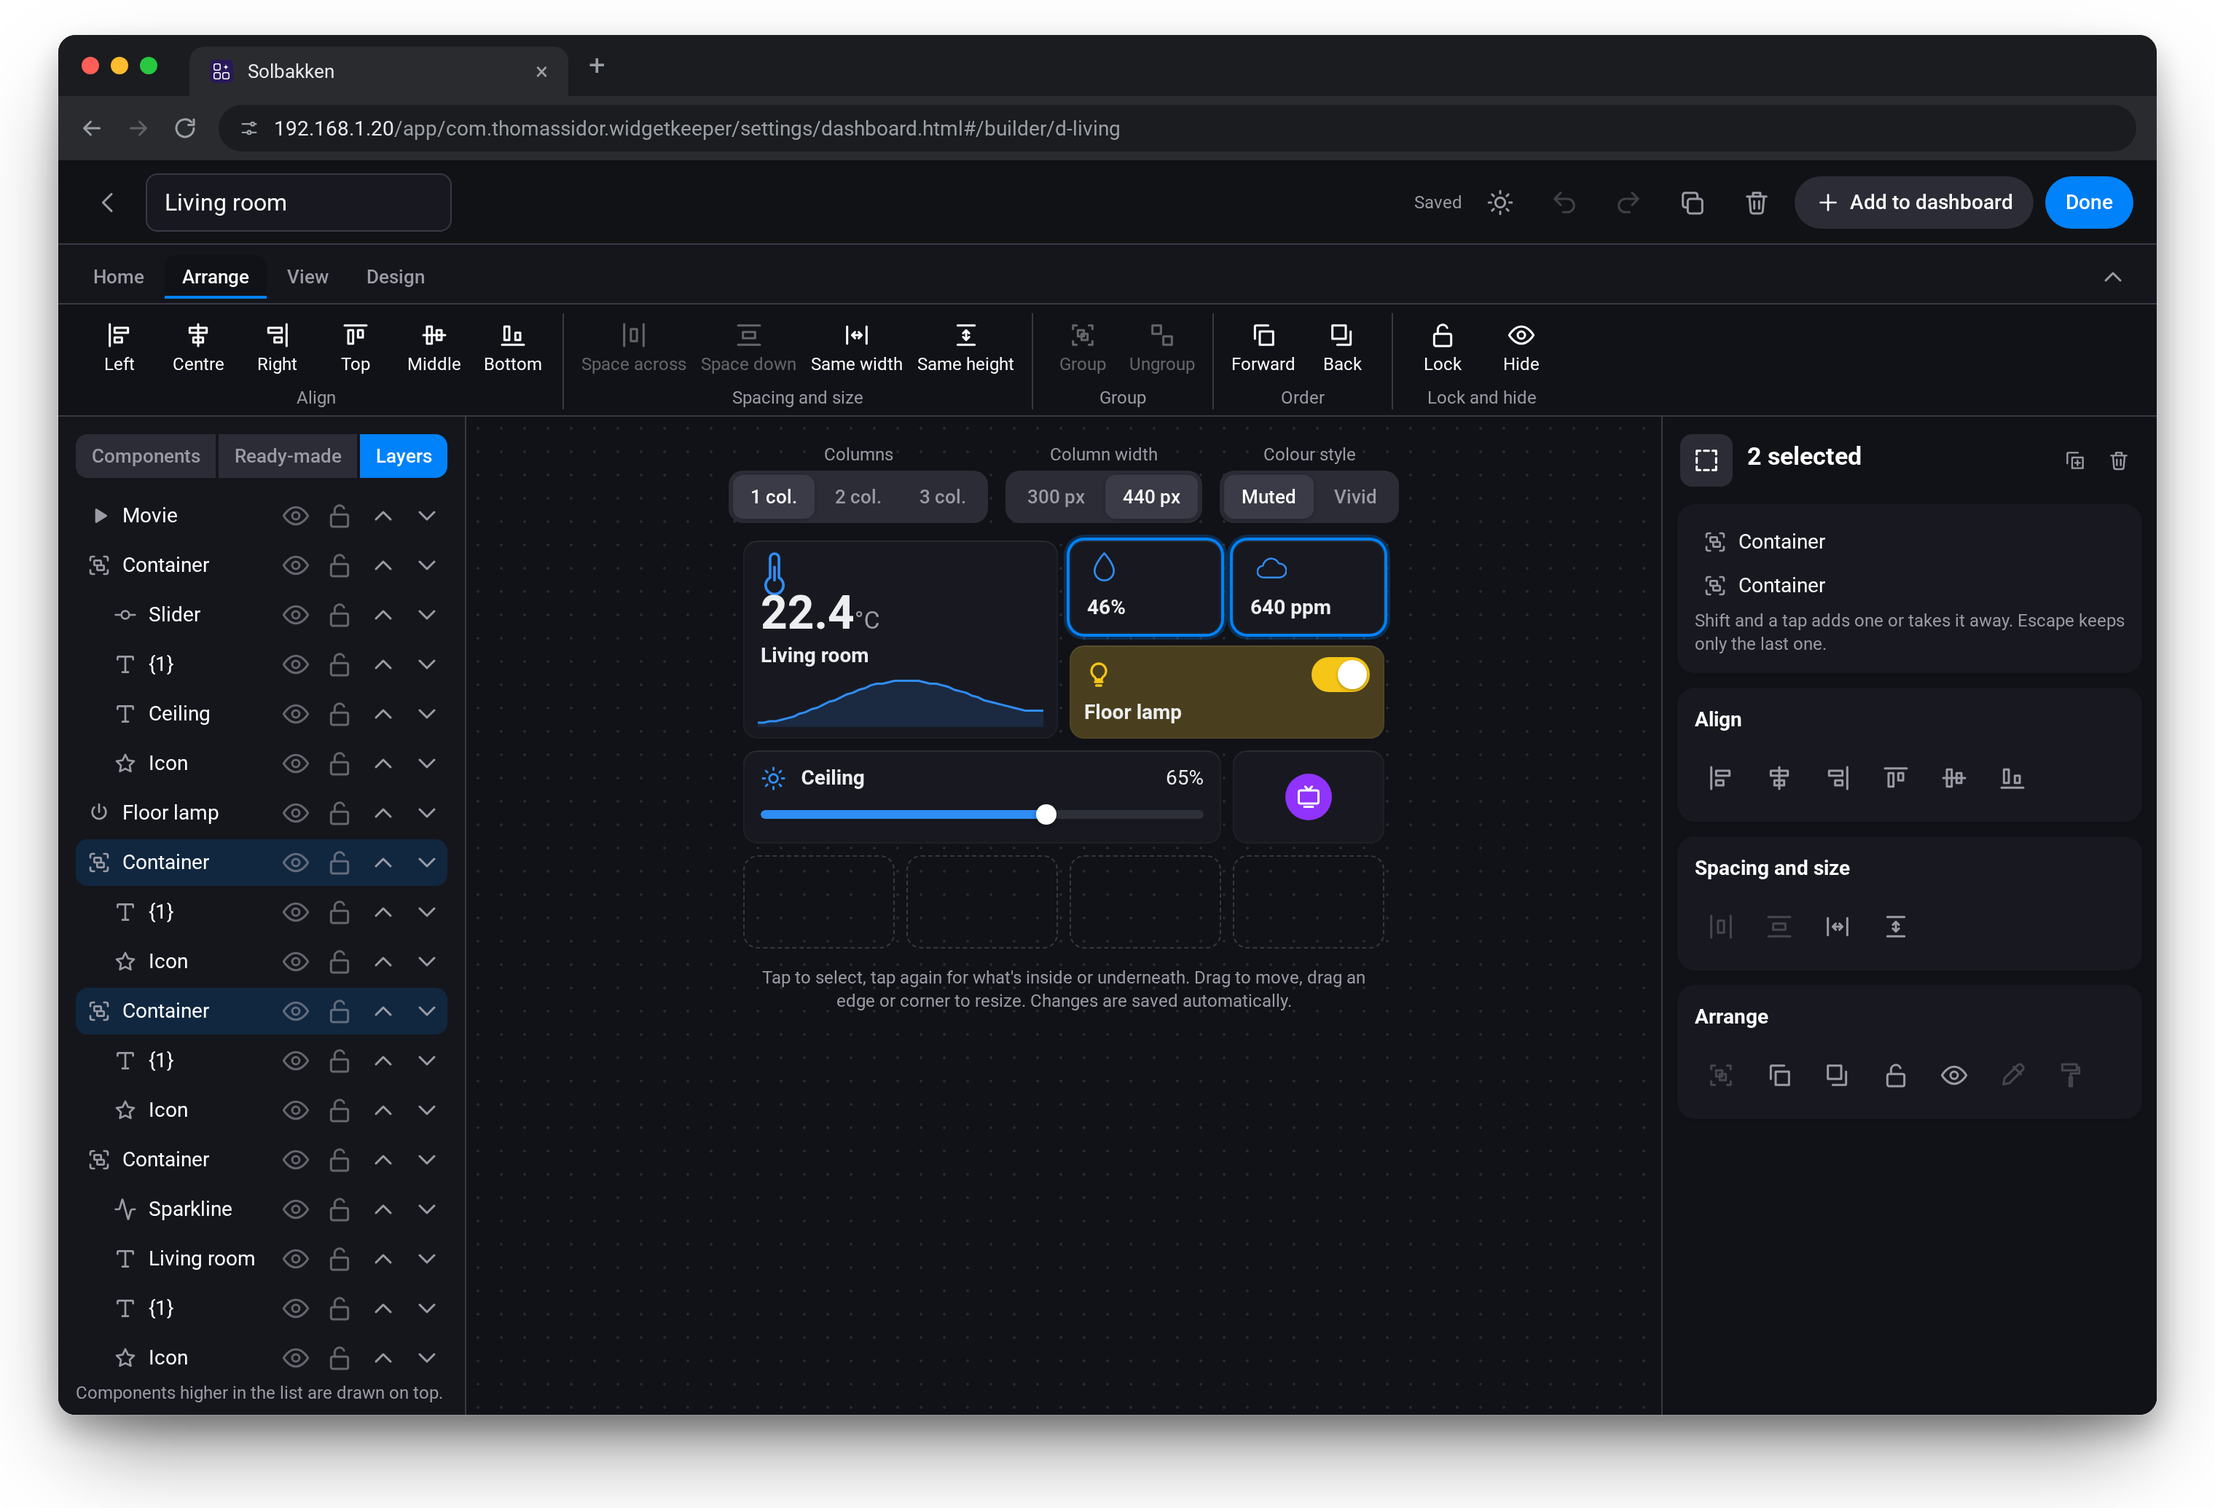
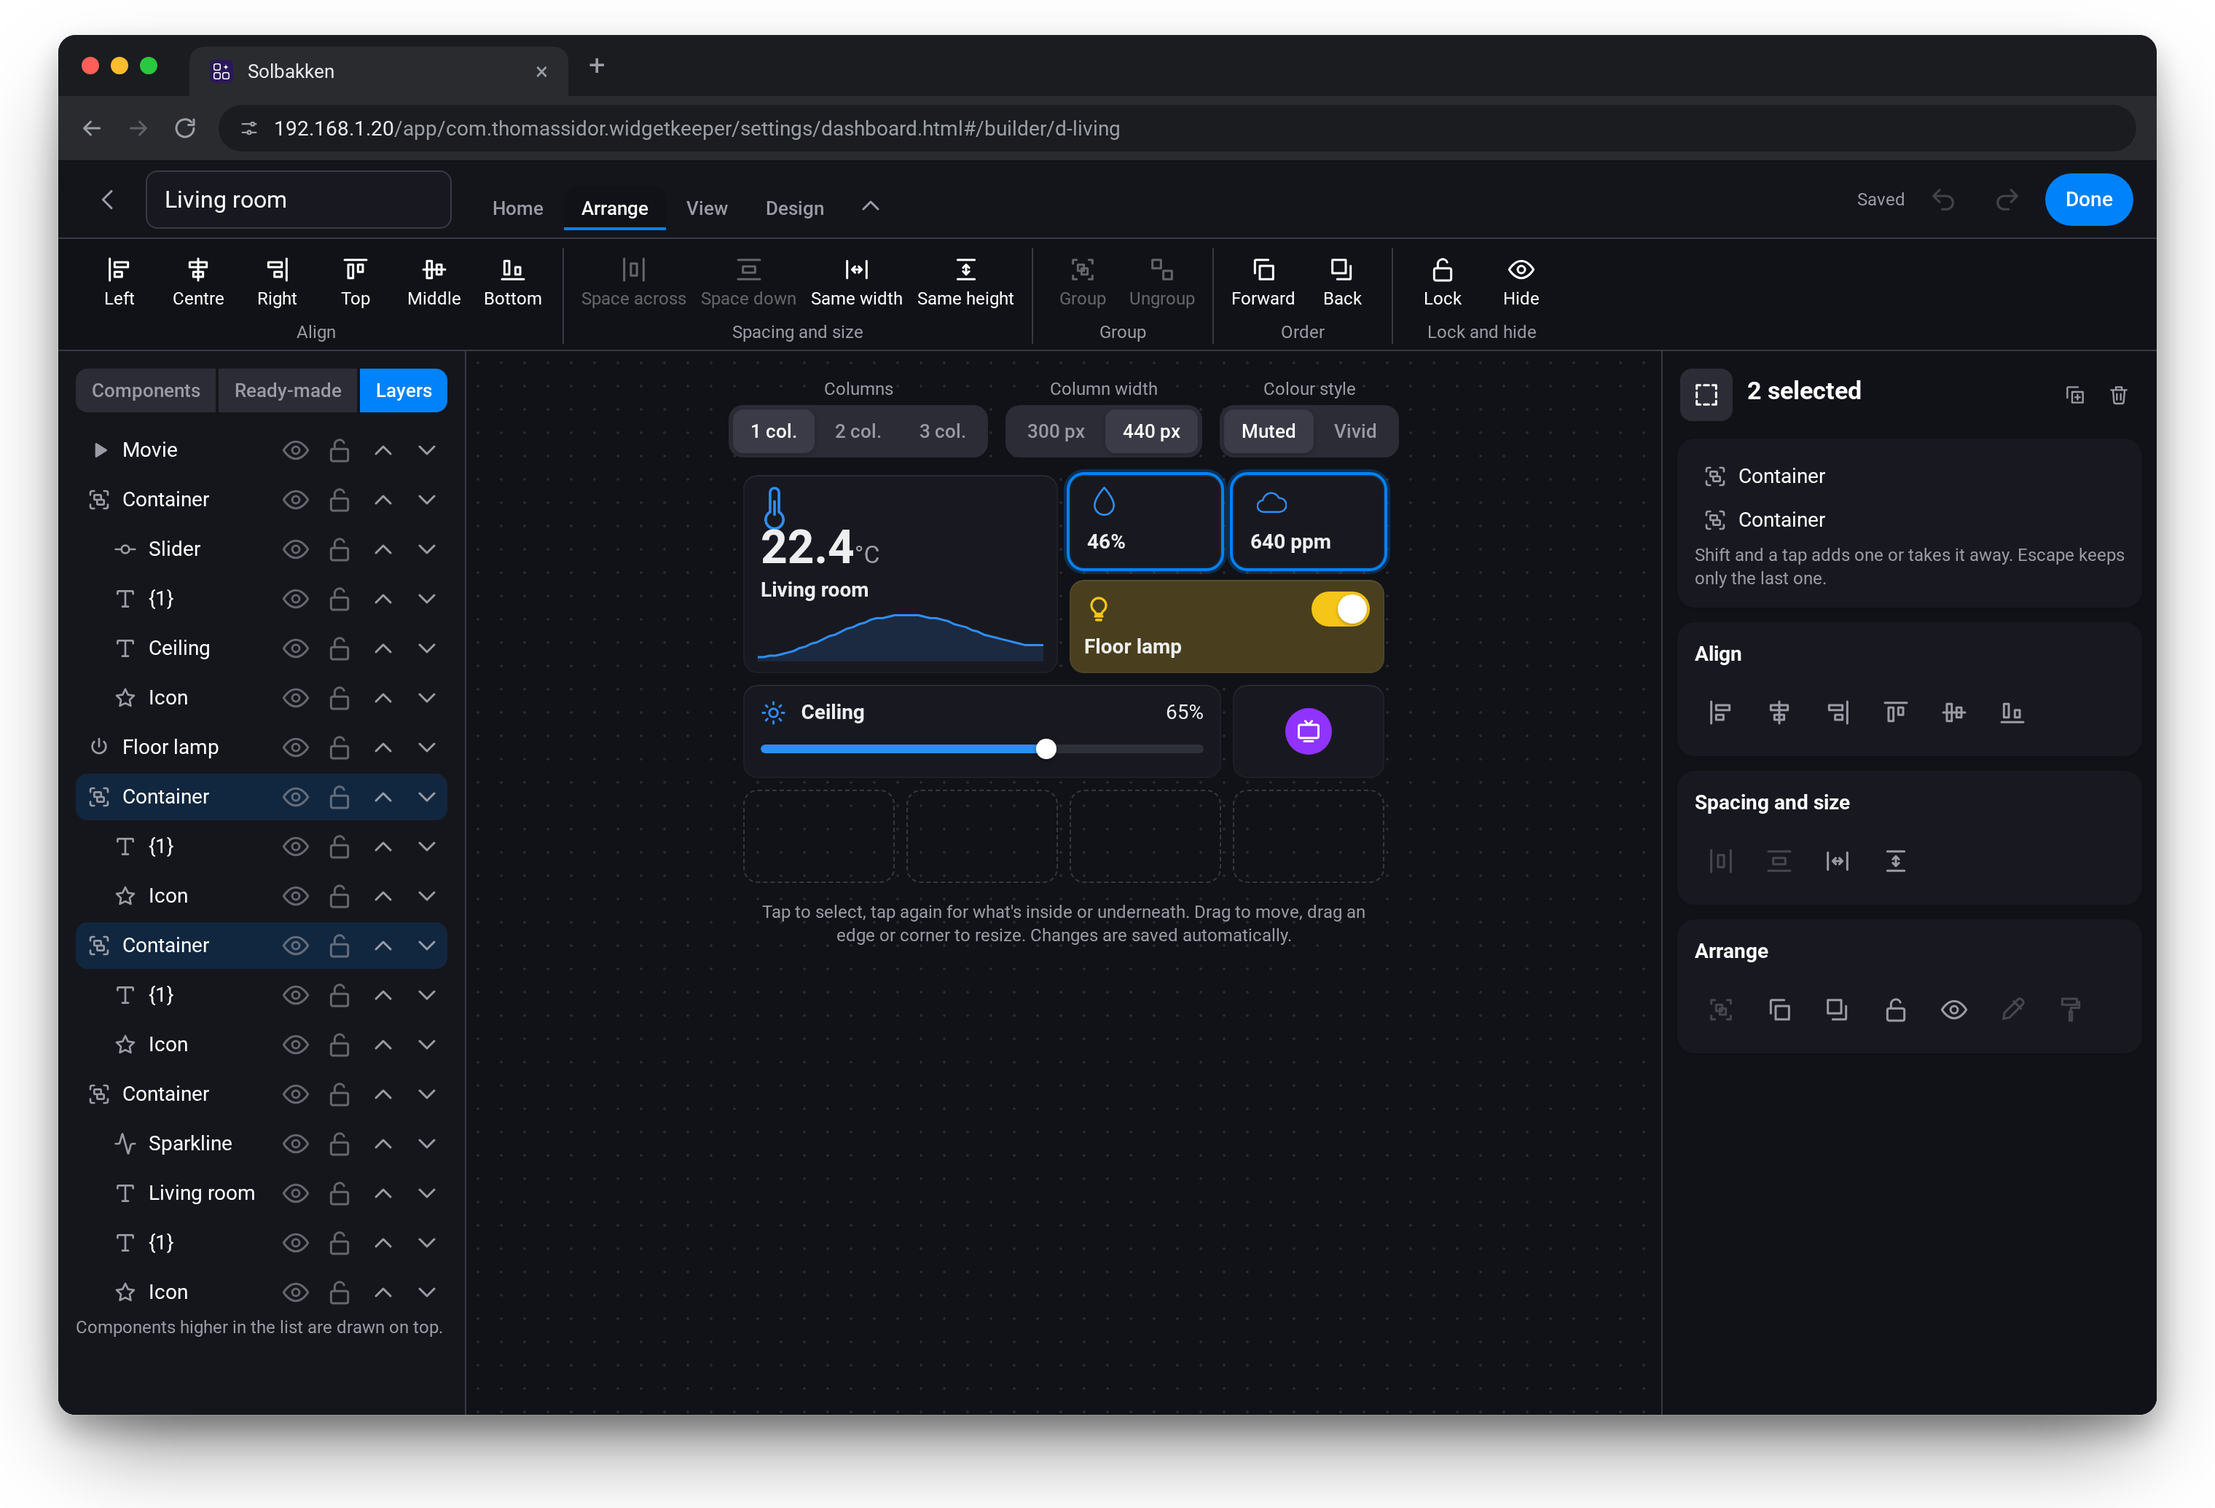
1.4.1's poster: Notes' Markdown, Batteries' Fill to the level, the builder's folded top bar

diff --git a/dev/whats-next-1.4.1.html b/dev/whats-next-1.4.1.html
@@ -8,7 +8,8 @@
     What's new in 1.4.1 (.homeychangelog.json), in the look of the 1.1.0 to 1.4.0 posters (whats-next-1.4.0.html): the new
     Batteries widget beside three of its Looks (docs/variants/battery-*.webp, `npm run variants -- battery`), the Widget
     Builder's ribbon of editing tools beside the real builder page (docs/web/ribbon.png, `npm run web-showcase -- ribbon`),
-    then the builder's smaller additions. All on made-up data. Plain words: say what it does.
+    then Notes' Markdown (what's typed beside its Look, docs/variants/textline-markdown.webp) and the builder's smaller
+    additions. All on made-up data. Plain words: say what it does.
     scripts/render-whats-next.mjs (`npm run whats-next -- 1.4.1`) renders it to docs/whats-next-1.4.1.png at 2x.
   -->
   <link href="https://fonts.googleapis.com/css2?family=Roboto:wght@400;500;700;900&display=swap" rel="stylesheet">
@@ -82,10 +83,20 @@
     .looks { flex: none; display: flex; gap: 16px; align-items: flex-start; }
     .looks img { display: block; width: 390px; height: auto; border-radius: 14px; }
 
-    /* The strip at the bottom: more in the Widget Builder, in four columns. */
-    .also { padding: 26px 36px 28px; margin-top: 24px; }
+    /* Notes: what's typed beside how it shows (its Look). */
+    .feat.notes { flex: none; display: flex; gap: 24px; align-items: flex-start; }
+    .notes .side { width: 400px; }
+    .notes img { flex: none; display: block; width: 390px; height: auto; border-radius: 14px; }
+    pre.typed {
+      margin: 0; padding: 14px 16px; border-radius: 14px; background: #1F2029; box-shadow: inset 0 0 0 1px rgba(255, 255, 255, 0.06);
+      font: 14px/22px ui-monospace, 'DejaVu Sans Mono', Menlo, Consolas, monospace; color: #E4E4E7; white-space: pre-wrap;
+    }
+    pre.typed b { color: #B9A6FF; font-weight: 400; }
+
+    /* Beside it: more in the Widget Builder, in two columns. */
+    .also { flex: 1 1 0; min-width: 0; padding: 22px 28px 20px; }
     .also h2 { margin: 0 0 16px; }
-    .also ul.more { margin: 0; display: block; columns: 4; column-gap: 36px; }
+    .also ul.more { margin: 0; display: block; columns: 2; column-gap: 32px; }
     .also ul.more li { break-inside: avoid; margin-bottom: 12px; }
   </style>
 </head>
@@ -95,10 +106,10 @@
     <div>
       <div class="eyebrow">Widgetkeeper 1.4.1 <span>Coming soon</span></div>
       <h1>New in 1.4.1</h1>
-      <p>Every battery in one tile, and the editing tools you know from design apps in the Widget Builder.</p>
+      <p>Every battery in one tile, the editing tools you know from design apps in the Widget Builder, and Notes with bold, lists and headings.</p>
     </div>
     <div class="chips">
-      <span>Batteries</span><span>Editing tools</span><span>Finer grid</span><span>Colour by value</span><span>Rectangle, Circle, Line</span>
+      <span>Batteries</span><span>Editing tools</span><span>Markdown in Notes</span><span>Finer grid</span><span>Colour by value</span><span>Rectangle, Circle, Line</span>
     </div>
   </header>
 
@@ -111,14 +122,15 @@
         <ul class="more">
           <li><b>Lowest first,</b> so you see at a glance what to change.</li>
           <li><b>Yellow and red</b> when a battery runs low, at levels you choose.</li>
+          <li><b>Fill to the level:</b> each cell filled as far as its battery, if you like.</li>
           <li><b>Devices that only say <i>low</i></b> show Low or OK.</li>
           <li><b>2, 3 or 4 per row,</b> Muted or Vivid, and your own names.</li>
         </ul>
       </div>
       <div class="looks">
         <img src="../docs/variants/battery-default.webp" alt="" width="780" height="688">
+        <img src="../docs/variants/battery-fill.webp" alt="" width="780" height="688">
         <img src="../docs/variants/battery-vivid.webp" alt="" width="780" height="688">
-        <img src="../docs/variants/battery-light.webp" alt="" width="780" height="688">
       </div>
     </section>
   </div>
@@ -128,7 +140,7 @@
       <div class="side">
         <span class="tag">Widget Builder</span>
         <h2>Editing tools</h2>
-        <p>A ribbon of tools above the canvas, as in Figma or Photoshop. The same tools are on a right click, with a list of shortcuts under <i>?</i>.</p>
+        <p>A ribbon of tools at the top, as in Figma or Photoshop. The same tools are on a right click, with a list of shortcuts under <i>?</i>.</p>
         <ul class="more">
           <li><b>Copy, cut and paste,</b> also into another design. Copy a look and paste it on another component.</li>
           <li><b>Select several</b> with Shift or a box, and move them together.</li>
@@ -143,6 +155,22 @@
       <img class="shot" src="../docs/web/ribbon.png" alt="" width="1520" height="1035">
     </section>
   </div>
+
+  <div class="columns">
+  <section class="feat notes">
+    <div class="side">
+      <span class="tag">Notes</span>
+      <h2>Bold, lists and headings</h2>
+      <p>Format a note with Markdown: bold, italic, struck out, headings, lists and quotes. Also from a Flow.</p>
+      <div class="label">What you type</div>
+<pre class="typed"><b>#</b> Good morning!
+It's <b>**</b>Sunday<b>**</b>, <b>*</b>no school<b>*</b> today.
+<b>-</b> Bins out by <b>`</b>07:00<b>`</b>
+<b>-</b> <b>~~</b>Dentist<b>~~</b> moved to Tuesday
+<b>&gt;</b> Have a nice day</pre>
+    </div>
+    <img src="../docs/variants/textline-markdown.webp" alt="" width="780" height="963">
+  </section>
 
   <section class="feat also">
     <span class="tag">Widget Builder</span>
@@ -159,6 +187,7 @@
       <li><b>Device icons</b> on switches, icons and lists, as in Quick Actions.</li>
     </ul>
   </section>
+  </div>
 
   <script>
     // The page's size and the columns' heights, for the render script, once the pictures and fonts are there.

diff --git a/.claude/rules/renders.md b/.claude/rules/renders.md
@@ -26,4 +26,4 @@ paths:
 - 1.2.0's teaser (`npm run whats-next`, needs `docs/web/preview.png`; headed *New in 1.2.0*, *In testing* since the test release, 2026-11-06), in the same look: a row of four new charts (Totals, Scatter (XY), Daily Profile, Min/Max), a row of four more (Lines, Stacked, Timeline, Ranking; updated 2026-10-31, after the last three and the sign-in codes came), then a row with Chart · Basic's free spans (a few as chips; two stacked charts of 6 months and 40 minutes, their readings made up in the page, their values now the showcase's 11.6 °C and 3,536 W), Device names (the settings page's card drawn, Energy's Quick Actions with a room after a `|` in full and before it), Sign-in codes (the settings page's Screens and browsers drawn with a made-up code `KX7P-M4TQ` and the preview's made-up home address with it as a real QR code from `settings/qrcode.js`, the kitchen tablet's *Opens on*, and the page's code field) and Chart · Gauge (the README screenshots' office CO₂, bar and dial), then a full-width strip of the six new colours (kit.css's bright over shade swatches) beside the And also list in two columns, then the web dashboards panel with the live preview. Gauge, Totals' cost, Opens on, the room mode, Sparklines' spans and the colours came the same evening (2026-10-31); the strip keeps the fourth column as short as the others. On 2026-11-03 the rest of 1.2.0 came in: Sync with Homey in the header, apps' numbers, Cameras, the tiles per row and the Timeline notice in And also, and, at the user's ask that each big web dashboards change gets its own showcase, the live preview's panel is followed by a row (`.pair`) of Sync with Homey dashboards, its two dialogs in one box (the user's ask: they're about the same thing; the editor's `sync-dialog.png` and the front page Settings' `nightly-dialog.png`, captioned, bottoms lined up) and, narrower, Copy a widget (`copy-dialog.png`); kiosk mode is an And also item (the user's call). `npm run web-showcase -- preview sync nightly copy` before the teaser. Each new chart is its README screenshot's mount (`mock-*.js`, the `h2` with a quieter `Chart ·`). No file is fetched, but the script serves the repo root for both. Byte-identical between runs.
 - 1.3.0's teaser (`npm run whats-next`, the default; 2026-11-06; needs `npm run web-showcase -- rotate addwidget`), headed *What's next in 1.3.0*, *Coming soon* (*New in 1.3.0*, *In testing* since the test release, 2026-11-10), in the same look: a row of Combined Value (the README screenshot's rooms and power, then low batteries by count with an OK range, its list open through `toggle()`), Value Board (`dev/variants.js`'s rooms without the balcony door, tiles and compact) and, two columns wide, Flow Tiles (four action cards and the tap trigger drawn with their real titles; the README screenshot's board, the same as Vivid pills with their times, and one per row on a board of its own); a row of One time format (the settings card drawn, the Energy Price Strip mounted once at 24 and once at 12, `setTimeFormat()` around the mount), 155 more icons (Flow Buttons with new icons at 2 per row and 54 of the list picked by hand, then as many whole rows of the other new icons as the panel has room for, measured in the page (`fillIcons()`, 90 in all on 2026-11-11, the user's ask: the panel had room for many more), `icons.js` loaded), Better pickers (the list drawn with the kit's glyphs as masks) and, in the fourth place, Widen the last tile (Energy's Quick Actions and Device Values); then a row of Rotate and dim (`rotate-dialog.png`, the `web_dim` card drawn) and Add widget (`addwidget-dialog.png`, Undo's message drawn); then a strip of Devices that drop off (Device Values with an unavailable floor lamp) and And also in three columns, Quicker to recover among them (the user's review, 2026-11-07: those two only as small items; a chart's names and the hidden legend are 1.2.1's, so off the poster). Updated 2026-11-09 (needs `npm run web-showcase -- nav brand background` too): after that row, a row of the side pane (`nav.png`) and Your own name and icons (`brand.png`), then a row of the background colour and Widget background (`background.png`) beside Chart height and legend (three dark Looks from `docs/variants/`) over Editing loses no work; Always live cameras, the 12-hour refresh and the popups' live video and size in And also. Updated 2026-11-10 for the test release (the five web views re-rendered after the Settings tabs and the pane's folding foot): Go back after a while under Rotate and dim, the pane's tint, folding foot and Settings in tabs, and Only by Flow beside the 12-hour refresh. **Reworked the same day** (the user's review: demote, merge, better headings): One time format, Widen the last tile and Devices that drop off are And also items now (no widgets of their own on the poster), Your own name and icons and the background merged into one full-width panel with both images side by side, and the headings say plainly what it is (the user, 2026-11-10: no slogans, *Switch dashboards from anywhere* was still too much): *Side pane*, *Rotate, go back and dim*, *Search in Add widget*, *Searchable pickers*, *Your own name, icons and colours*, *Undo and safer saves*. Rows: the widgets; icons, pickers and wall tablets; the side pane beside Add widget; your own name, icons and colours; chart height beside Undo and safer saves; And also in four columns (Shorter room and Flow names added there 2026-11-12, the user's ask: an And also, not a feature of its own). Byte-identical between runs.
 - 1.4.0's teaser (`npm run whats-next`, the default; 2026-11-25; needs `npm run web-showcase -- builder`), headed *New in 1.4.0*, *Coming soon* (*In testing* since the test release, 2026-11-26), in the same look. **Reworked 2026-11-26** (the user's review: plainer wording, App settings demoted, nicer example widgets): a full-width Widget Builder panel (what it does in plain words beside `docs/web/builder.png`); *Made with the Widget Builder*, four example designs as the real widget on the dashboard's dark (`dev/mock-custom.js`' scenes `door`, `energy`, `bedroom`, `hallway`, made for it: things a user would build, not a tour of the components; the Looks' feature scenes stay for the widget page); *Let your Flows fill in a widget* (three input cards and the tap trigger drawn with their real titles, beside the front door's top tile with the *Door message* the first card sets); a row of Group Quick Action (its README screenshot), *Any colour from a Flow* (the Flow Buttons card drawn, Flow Buttons mounted with typed colours, lower-case `#rrggbb` as `parseCustomColor()` stores them, which `isCustomColor()` requires), *Tabs in the Smart Stack* (its two tab Looks) and *A button beside ⋯* (Media's Look); then And also in four columns (Decimals, White and Black, App settings on the web, the builder in the side pane and Add widget). The hallway shows a count of open doors (the List said *On* for an open door then; fixed the same day, below in `custom.md`). The first forum post's Widget Builder section shows `docs/forum/builder-examples.jpg`, the Made with panel cropped from the teaser (2× px 96, 2208, 3328 × 1168, scaled to 1380), and `docs/forum/web-builder.jpg`. Byte-identical between runs.
-- 1.4.1's poster (`npm run whats-next`, the default; 2026-11-28; needs `npm run web-showcase -- ribbon`), headed *New in 1.4.1*, *Coming soon*, in the same look: Batteries beside three of its Looks (`docs/variants/battery-default`, `-vivid`, `-light`); *Editing tools* (the Widget Builder's ribbon) beside `docs/web/ribbon.png`; then *Also in the Widget Builder* in four columns (the finer grid, Rectangle, Circle and Line, colour by value, median, a device's room, time since a Flow input, Repeater sorted by value, List item colours, device icons). The page waits for its images to decode before it reports its size.
+- 1.4.1's poster (`npm run whats-next`, the default; 2026-11-28; needs `npm run web-showcase -- ribbon`), headed *New in 1.4.1*, *Coming soon*, in the same look: Batteries beside three of its Looks (`docs/variants/battery-default`, `-fill`, `-vivid`); *Editing tools* (the Widget Builder's ribbon) beside `docs/web/ribbon.png`; then a row of Notes' *Bold, lists and headings* (the Markdown typed, drawn, beside its `textline-markdown` Look; updated 2026-11-28 with it, Fill to the level and the builder's folded top bar) and *Also in the Widget Builder* in two columns (the finer grid, Rectangle, Circle and Line, colour by value, median, a device's room, time since a Flow input, Repeater sorted by value, List item colours, device icons). The page waits for its images to decode before it reports its size.
